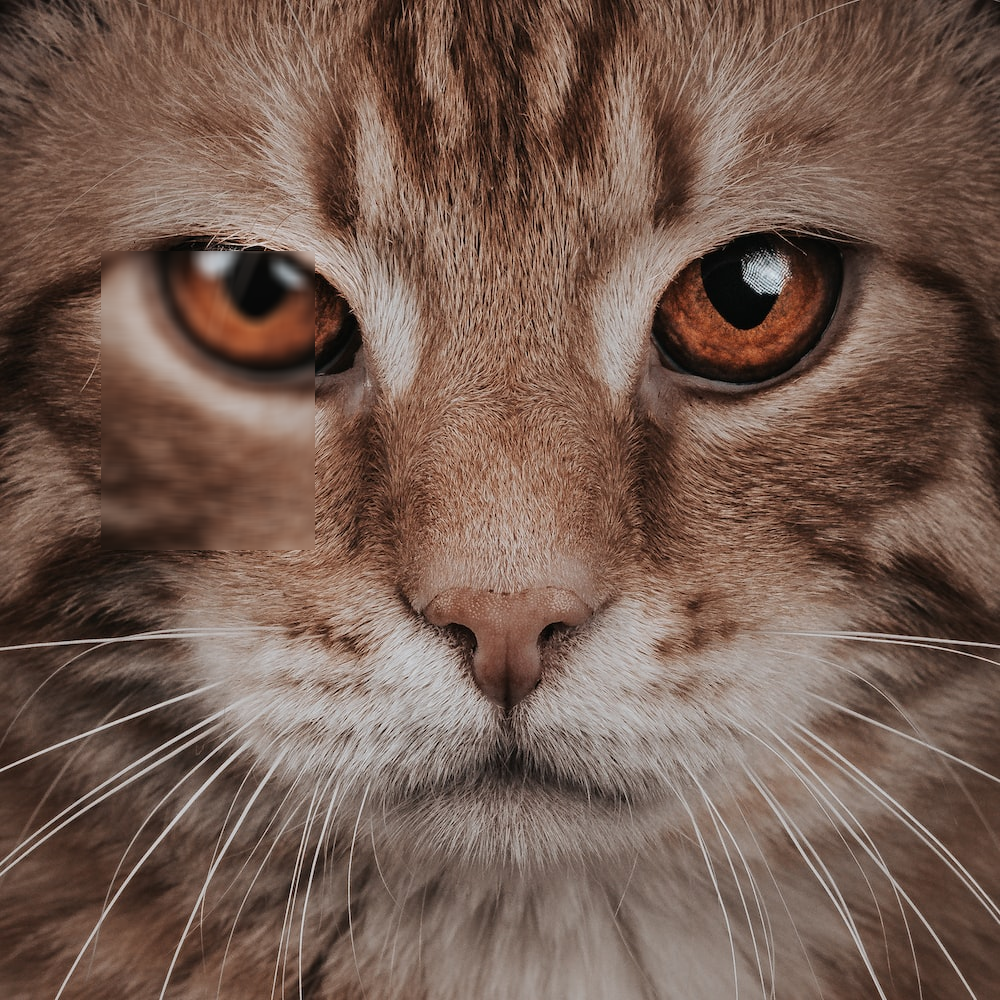
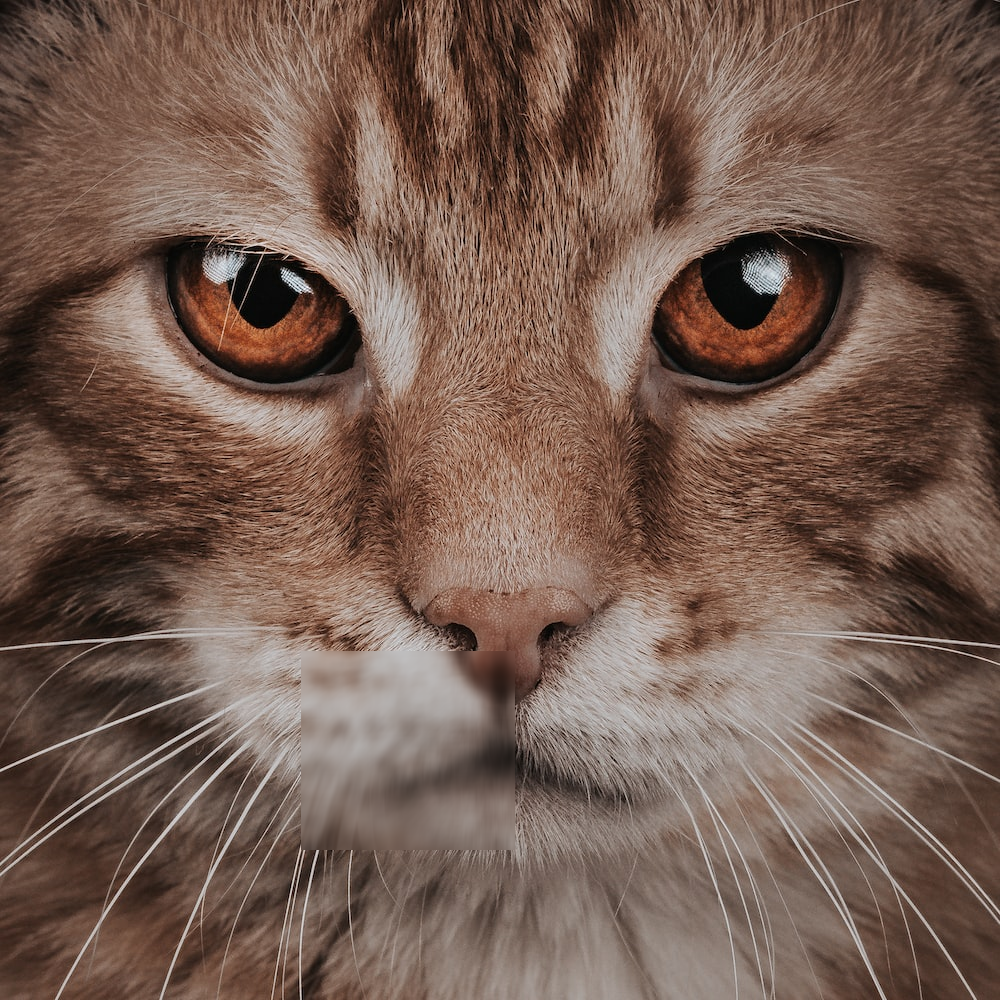
Puting everithing on place

Changed region(s): [[0.093, 0.248, 0.341, 0.558], [0.279, 0.651, 0.527, 0.868]]

diff --git a/scripts/carpu.py b/scripts/carpu.py
@@ -13,6 +13,7 @@ def blur(org_file, dest_file, blur_x, blur_y, pos_x, pos_y):
                 r_tmp = []
                 g_tmp = []
                 b_tmp = []
+                
                 for y1 in range(15):    #change the range value for more blur
                     for x1 in range(15):
                         r, g, b = org_img.getpixel((x + x1 ,y + y1))
@@ -30,4 +31,4 @@ def blur(org_file, dest_file, blur_x, blur_y, pos_x, pos_y):
     dest_img.save(dest_file)
     dest_img.show()
 
-blur('cat.PNG', 'new.PNG', 215, 300, 100, 250)
+blur('./assets/cat.PNG', 'new.PNG', 215, 200, 300, 650)

diff --git a/README.md b/README.md
@@ -1,2 +1,8 @@
 # blur-effect
-we are creating an blur effect because we can
+The goal of this project is to create a python tool that blurs a chosen part of an image.
+
+The project is still on developement
+
+CHECK: on ./scripts you can find 2 WORKING codes
+
+Make sure to upload your image in ./assets
